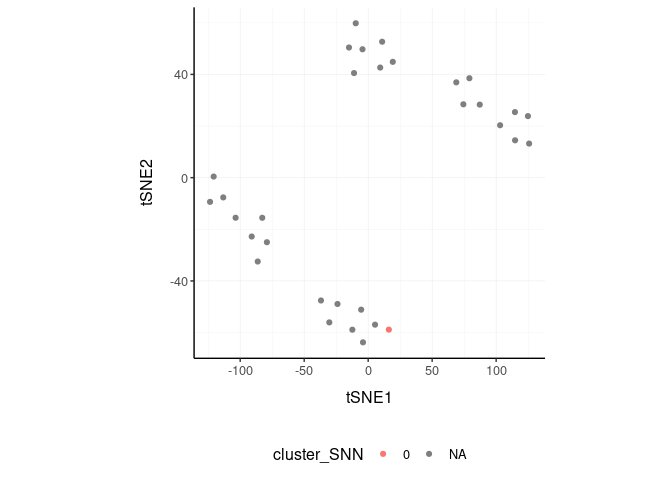
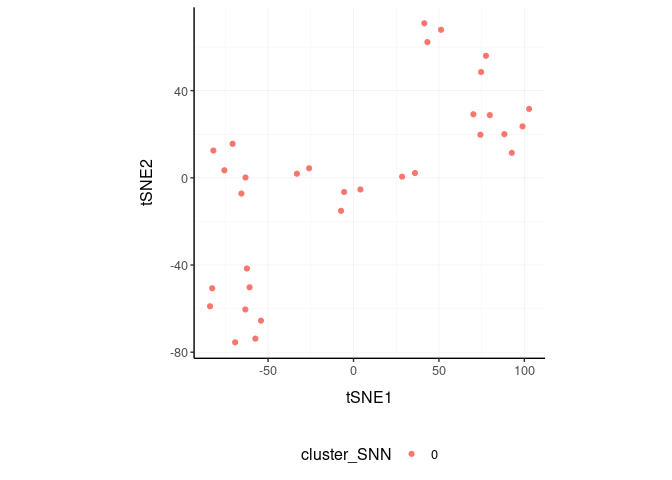
update README with SNN

diff --git a/README.md b/README.md
@@ -265,7 +265,7 @@ mtcars_tidy_cluster = mtcars_tidy_MDS %>%
   cluster_elements(car_model, feature, value, method="kmeans",  centers = 2, action="get" )
 ```
 
-We can add cluster annotation to the MDS dimesion reduced data set and
+We can add cluster annotation to the MDS dimension reduced data set and
 plot.
 
 ``` r
@@ -276,6 +276,46 @@ plot.
 ```
 
 ![](README_files/figure-gfm/plot_cluster-1.png)<!-- -->
+
+**SNN**
+
+``` r
+mtcars_tidy_SNN =
+    mtcars_tidy_tSNE %>%
+    cluster_elements(car_model, feature, value, method = "SNN")
+```
+
+We can add cluster annotation to the tSNE dimension reduced data set and
+plot.
+
+``` r
+mtcars_tidy_SNN %>%
+    subset(car_model) %>%
+    select(contains("tSNE"), everything()) 
+```
+
+    ## # A tibble: 32 x 6
+    ##     tSNE1   tSNE2 car_model            hp    vs cluster_SNN
+    ##     <dbl>   <dbl> <chr>             <dbl> <dbl> <fct>      
+    ##  1 -63.2    0.149 Mazda RX4           110     0 0          
+    ##  2 -65.6   -7.21  Mazda RX4 Wag       110     0 0          
+    ##  3 -60.8  -50.2   Datsun 710           93     1 0          
+    ##  4  28.4    0.525 Hornet 4 Drive      110     1 0          
+    ##  5  98.9   23.6   Hornet Sportabout   175     0 0          
+    ##  6  36.0    2.21  Valiant             105     1 0          
+    ##  7  74.7   48.5   Duster 360          245     0 0          
+    ##  8  -5.49  -6.48  Merc 240D            62     1 0          
+    ##  9  -7.30 -15.1   Merc 230             95     1 0          
+    ## 10 -33.1    1.88  Merc 280            123     1 0          
+    ## # … with 22 more rows
+
+``` r
+mtcars_tidy_SNN %>%
+    subset(car_model) %>%
+    ggplot(aes(x = `tSNE1`, y = `tSNE2`, color=cluster_SNN)) + geom_point() + my_theme
+```
+
+![](README_files/figure-gfm/SNN_plot-1.png)<!-- -->
 
 **gating**
 
